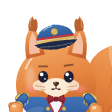
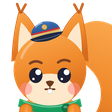
Helper mascot: the new Oiva Orava v2 squirrel (scarf, cream belly, coin) for the big Helper and the Ask Oiva faces
All 16 Helper moods map one to one onto the v2 pack's states. oiva.js is the pack's v2 file with the chat's
frame cap (fps option, setFps) carried over; the Ask Oiva face is the pack's red idle head avatar at 112 px.

diff --git a/app/static/oiva/mascot/oiva.js b/app/static/oiva/mascot/oiva.js
@@ -12,7 +12,7 @@
      b* body, c* crest, iri* iridescent rim, accent2 = hat feather / confetti. */
   /* Fur colours; the vault-keeper uniform stays the same in every variant. */
   const PALETTES = {
-    red:    { label: 'Red squirrel', b0: '#f4ad6a', b1: '#e5853f', b2: '#c9622b', cream: '#fbead3', inner: '#f3bfa2', tuft: '#b8622f',
+    red:    { label: 'Red squirrel', b0: '#fbab52', b1: '#f08a2c', b2: '#d56b1e', cream: '#fde8cb', inner: '#fbd6b2', tuft: '#c4601e',
               shadow: '#b9a58f', blush: '#ff8f8f', brow: '#7d4224', accent: '#b3323f', accentDk: '#7d1f2c', accent2: '#d6ae58',
               iri0: '#ffe2b8', iri1: '#9fc7d3', iri2: '#ffd27a' },
     winter: { label: 'Winter grey', b0: '#dcd6d1', b1: '#b9b1aa', b2: '#958c85', cream: '#f7f3ef', inner: '#efd0ca', tuft: '#7d746e',
@@ -23,7 +23,8 @@
               iri0: '#fff0c8', iri1: '#9fc7d3', iri2: '#ffd27a' }
   };
   // vault-keeper uniform (from the campaign look): blue coat, red piping, brass/gold
-  const NEON = '#c6f03c';  // highlighter only (approximate)
+  const NEON = '#c6f03c';
+  const SCARF0 = '#1fae69', SCARF1 = '#118a50', SCARF_DK = '#0e7443';  // highlighter only (approximate)
   const INK = '#1f2035', COAT0 = '#3f74b9', COAT1 = '#244a82', PIPING = '#c8323c', GOLD = '#d6ae58', GOLD_DK = '#a8822f';
 
   /* Tail spine (three bezier segments) sampled into overlapping fur puffs */
@@ -48,7 +49,7 @@
     const heart = 'M0 4 C-7 -1 -5 -8 0 -4.5 C5 -8 7 -1 0 4 Z';
     // a squirrel paw: round mitt + thumb + little toe lines
     const glove = (tx) => `<circle cx="${tx}" cy="-4" r="3.6" fill="${url('paw')}" stroke="${C.b2}" stroke-width="1"/>
-      <circle r="8.2" fill="${url('paw')}" stroke="${C.b2}" stroke-width="1"/>
+      <circle r="9" fill="${url('paw')}" stroke="${C.b2}" stroke-width="1"/>
       <path d="M-3.4 4.6 L-3 7.4 M0 5.2 L0 8.2 M3.4 4.6 L3 7.4" stroke="${C.b2}" stroke-width="1.1" stroke-linecap="round" opacity=".7"/>
       <ellipse cx="-2.6" cy="-3.4" rx="2.8" ry="1.8" fill="#fff" opacity=".55"/>`;
     const confColors = [C.accent, GOLD, COAT0, C.iri1, C.blush, C.b1];
@@ -56,10 +57,9 @@
       `<rect data-p="conf${i}" x="-2.5" y="-4" width="5" height="8" rx="1.5" fill="${c}" opacity="0"/>`).join('');
     const ear = (side) => {
       const m = (x) => 100 + side * (x - 100);
-      return `<path d="M${m(63)} 80 Q${m(58)} 52 ${m(70)} 38 Q${m(82)} 52 ${m(86)} 74 Z" fill="${url('fur')}"/>
-        <path d="M${m(67)} 74 Q${m(64)} 56 ${m(71)} 46 Q${m(78)} 58 ${m(80)} 72 Z" fill="${C.inner}"/>
-        <path d="M${m(66)} 44 C${m(64)} 36 ${m(67)} 30 ${m(71)} 26 C${m(71)} 31 ${m(73.5)} 32 ${m(75)} 29 C${m(78)} 34 ${m(77.5)} 41 ${m(75)} 46 Z" fill="${C.tuft}"/>
-        <path d="M${m(68)} 40 C${m(67)} 34 ${m(68.5)} 30 ${m(70.5)} 27" fill="none" stroke="${C.b0}" stroke-width="1.3" stroke-linecap="round" opacity=".7"/>`;
+      return `<path d="M${m(57)} 86 Q${m(58)} 56 ${m(65)} 30 Q${m(67)} 28 ${m(69)} 30 Q${m(86)} 46 ${m(94)} 74 Z" fill="${url('fur')}" stroke="${C.b2}" stroke-width=".8" stroke-linejoin="round"/>
+        <path d="M${m(64)} 76 Q${m(64)} 58 ${m(67.5)} 42 Q${m(80)} 54 ${m(85)} 72 Z" fill="${C.cream}"/>
+        <path d="M${m(66.5)} 31 L${m(63)} 21.5 M${m(67.5)} 31 L${m(72.5)} 22" fill="none" stroke="${C.tuft}" stroke-width="2.8" stroke-linecap="round"/>`;
     };
     return `
 <svg viewBox="-10 -20 220 220" xmlns="http://www.w3.org/2000/svg" role="img" aria-label="Oiva Orava, the vault-keeper squirrel">
@@ -70,9 +70,11 @@
     <radialGradient id="${id('paw')}" cx=".35" cy=".3" r=".8">
       <stop offset="0" stop-color="${C.b0}"/><stop offset="1" stop-color="${C.b1}"/>
     </radialGradient>
-    <linearGradient id="${id('tail')}" gradientUnits="userSpaceOnUse" x1="140" y1="170" x2="195" y2="40">
+    <linearGradient id="${id('tail')}" gradientUnits="userSpaceOnUse" x1="140" y1="178" x2="190" y2="40">
       <stop offset="0" stop-color="${C.b2}"/><stop offset=".45" stop-color="${C.b1}"/><stop offset="1" stop-color="${C.b0}"/>
     </linearGradient>
+    <radialGradient id="${id('coinFace')}" cx=".38" cy=".32" r=".8"><stop offset="0" stop-color="#ffe680"/><stop offset=".6" stop-color="#f8c42c"/><stop offset="1" stop-color="#eaa514"/></radialGradient>
+    <linearGradient id="${id('scarf')}" x1="0" y1="0" x2="0" y2="1"><stop offset="0" stop-color="${SCARF0}"/><stop offset="1" stop-color="${SCARF1}"/></linearGradient>
     <linearGradient id="${id('coat')}" x1="0" y1="0" x2="0" y2="1">
       <stop offset="0" stop-color="${COAT0}"/><stop offset="1" stop-color="${COAT1}"/>
     </linearGradient>
@@ -97,56 +99,29 @@
 
   <g data-p="float"><g data-p="lean"><g data-p="body">
     <!-- big fluffy tail (behind) -->
-    <!-- bushy tail: rises behind his back in an S, tip curls outward above the ear -->
+    <!-- big round tail (v2 style): rises behind the body, top bulges up beside the head -->
     <g data-p="tail">
-      <path d="M128 160 C150 174 182 163 187 132 C191 106 181 92 180 74 C179 56 187 40 200 40 C211 41 211 59 200 61 C191 63 185 58 176 61 C161 65 148 72 142 86 C135 102 131 126 128 160 Z" fill="${C.b2}" transform="translate(2.2 2.4)"/>
-      <path d="M128 160 C150 174 182 163 187 132 C191 106 181 92 180 74 C179 56 187 40 200 40 C211 41 211 59 200 61 C191 63 185 58 176 61 C161 65 148 72 142 86 C135 102 131 126 128 160 Z" fill="${url('tail')}"/>
-      <g clip-path="${url('tailClip')}">
-        <path d="M146 168 C170 160 182 136 180 112 C178 94 168 82 170 66 C171 55 178 48 190 46" fill="none" stroke="${C.cream}" stroke-width="8" stroke-linecap="round" opacity=".3"/>
-        <path d="M160 150 q8 -6 12 -16 M166 118 q4 -8 3 -18 M174 82 q0 -8 4 -14" fill="none" stroke="${C.b2}" stroke-width="1.6" stroke-linecap="round" opacity=".35"/>
-        <path d="M186 132 C190 112 186 98 180 86" fill="none" stroke="#fff" stroke-width="2.4" stroke-linecap="round" opacity=".28"/>
-      </g>
-      <path d="M181 47 C186 42 195 41 201 45" fill="none" stroke="#fff" stroke-width="2.4" stroke-linecap="round" opacity=".7"/>
+      <path d="M116 186 C156 196 202 178 203 130 C204 84 188 46 158 41 C138 38 124 52 127 70 C130 86 150 92 156 112 C162 134 150 158 118 170 Z" fill="${C.b2}" transform="translate(1.6 2)"/>
+      <path d="M116 186 C156 196 202 178 203 130 C204 84 188 46 158 41 C138 38 124 52 127 70 C130 86 150 92 156 112 C162 134 150 158 118 170 Z" fill="${url('tail')}"/>
+      <path d="M174 54 C190 66 197 92 196 118" fill="none" stroke="#fff" stroke-width="4.6" stroke-linecap="round" opacity=".45"/>
+      <path d="M195 142 C191 160 180 172 162 179" fill="none" stroke="#fff" stroke-width="2" stroke-linecap="round" opacity=".18"/>
     </g>
-    <!-- hind legs + feet (behind the coat) -->
-    ${[-1, 1].map((sd) => { const m = (x) => 100 + sd * (x - 100);
-      return `<path d="M${m(84)} 148 C${m(82.5)} 165 ${m(82)} 176 ${m(84)} 186 L${m(96)} 186 C${m(97)} 175 ${m(96.5)} 163 ${m(95)} 148 Z" fill="${url('fur')}"/>
-        <path d="M${m(86)} 160 C${m(85.5)} 170 ${m(85.5)} 177 ${m(86.5)} 183" fill="none" stroke="#fff" stroke-width="1.6" stroke-linecap="round" opacity=".3"/>
-        <g transform="translate(${m(88)} 188) rotate(${sd * -9})">
-          <ellipse rx="11" ry="5.4" fill="${url('paw')}" stroke="${C.b2}" stroke-width="1.1"/>
-          <path d="M-2.5 -1 v3 M2.5 -1 v3" stroke="${C.b2}" stroke-width=".9" stroke-linecap="round" opacity=".45"/>
-          <ellipse cx="-3.6" cy="-2.4" rx="3.6" ry="1.3" fill="#fff" opacity=".5"/>
-        </g>`; }).join('')}
-    <!-- coat tails -->
-    <path d="M70 151 Q65 162 65 171 Q74 170 82 160 Z" fill="${url('coat')}"/>
-    <path d="M130 151 Q135 162 135 171 Q126 170 118 160 Z" fill="${url('coat')}"/>
-    <path d="M70 151 Q65 162 65 171" fill="none" stroke="${PIPING}" stroke-width="1.6" stroke-linecap="round"/>
-    <path d="M130 151 Q135 162 135 171" fill="none" stroke="${PIPING}" stroke-width="1.6" stroke-linecap="round"/>
-
-    <!-- round fur body -->
-    <circle cx="100" cy="112" r="50" fill="${url('fur')}"/>
-    <g clip-path="${url('bodyClip')}">
-      <!-- double-breasted vault-keeper coat -->
-      <path d="M40 133 Q66 124 88 128 L100 153 L112 128 Q134 124 160 133 L160 175 L40 175 Z" fill="${url('coat')}"/>
-      <path d="M88 128 Q100 125 112 128 L100 153 Z" fill="#f4f6fb"/>
-      <path d="M88 128 L100 153 L112 128" fill="none" stroke="${PIPING}" stroke-width="2.2" stroke-linejoin="round"/>
-      <path d="M100 153 L100 175" stroke="${PIPING}" stroke-width="1.8"/>
-      <ellipse cx="72" cy="146" rx="14" ry="5" fill="#fff" opacity=".12" transform="rotate(-20 72 146)"/>
-      ${[[90, 142], [110, 142], [91, 152], [109, 152], [92, 162], [108, 162]].map(([x, y]) =>
-        `<circle cx="${x}" cy="${y}" r="2.3" fill="${url('gold')}" stroke="${GOLD_DK}" stroke-width=".7"/>`).join('')}
+    <!-- feet -->
+    <g data-p="legs">
+      ${[83, 117].map((x) => `<ellipse cx="${x}" cy="191" rx="13.5" ry="6.6" fill="${url('paw')}" stroke="${C.b2}" stroke-width=".9"/>
+        <ellipse cx="${x - 3.5}" cy="188.2" rx="4.6" ry="1.6" fill="#fff" opacity=".4"/>`).join('')}
     </g>
-    <!-- gold epaulettes -->
-    ${[-1, 1].map((sd) => { const m = (x) => 100 + sd * (x - 100);
-      return `<path d="M${m(49)} 128 Q${m(55)} 119 ${m(67)} 123 L${m(65)} 131 Q${m(56)} 133 ${m(49)} 131 Z" fill="${url('gold')}" stroke="${GOLD_DK}" stroke-width=".8"/>
-        <path d="M${m(51)} 131 l${sd * -.5} 5 M${m(54.5)} 132 l0 5.5 M${m(58)} 132.5 l0 5.5 M${m(61.5)} 132.5 l0 5 M${m(64.5)} 131.5 l${sd * .4} 4.5" stroke="${GOLD}" stroke-width="1.3" stroke-linecap="round"/>`; }).join('')}
-    <!-- soft fur lighting -->
-    <ellipse cx="68" cy="104" rx="6" ry="14" fill="#fff" opacity=".28" filter="${url('blur2')}"/>
-    <path d="M62 92 A42 42 0 0 1 80 70" fill="none" stroke="#fff" stroke-width="2.6" stroke-linecap="round" opacity=".55"/>
+    <!-- small pear body with a cream belly -->
+    <path d="M100 121 C129 121 141 148 141 167 C141 184 123 192 100 192 C77 192 59 184 59 167 C59 148 71 121 100 121 Z" fill="${url('fur')}"/>
+    <path d="M100 137 C119 137 128 155 128 170 C128 183 116 189 100 189 C84 189 72 183 72 170 C72 155 81 137 100 137 Z" fill="${C.cream}"/>
+    <path d="M70 158 C71 146 78 134 88 129" fill="none" stroke="#fff" stroke-width="2.6" stroke-linecap="round" opacity=".28"/>
 
-    <!-- ears + peaked cap -->
+    <!-- head (with ears and cap) -->
     <g data-p="crest">
       <g data-p="earL">${ear(1)}</g>
       <g data-p="earR">${ear(-1)}</g>
+      <circle cx="100" cy="96" r="41" fill="${url('fur')}"/>
+      <path d="M68 82 C72 70 82 61 95 58" fill="none" stroke="#fff" stroke-width="3" stroke-linecap="round" opacity=".3"/>
       <!-- LEARNED: idea bulb above the cap -->
       <g data-p="bulb" opacity="0">
         <g data-p="bulbRays" stroke="#f2c14e" stroke-width="2.4" stroke-linecap="round">
@@ -158,7 +133,7 @@
         <path d="M-4.4 10.6 H4.4" stroke="#7d8fa6" stroke-width="1"/>
         <ellipse cx="-3.6" cy="-4" rx="2.6" ry="1.6" fill="#fff" opacity=".9"/>
       </g>
-      <g data-p="hat"><g transform="translate(100 60) scale(1.12) translate(-100 -60)">
+      <g data-p="hat"><g transform="translate(97 60) scale(.8) translate(-100 -64)">
         <path d="M79 60 Q77 42 100 39 Q123 42 121 60 Z" fill="${url('coat')}"/>
         <rect x="79.2" y="52" width="41.6" height="2.4" fill="${PIPING}"/>
         <rect x="79" y="54.4" width="42" height="4.2" fill="${url('gold')}"/>
@@ -169,47 +144,54 @@
       </g></g>
     </g>
 
+    <!-- scarf -->
+    <path d="M66 128 Q100 143 134 128 L136 137 Q100 153 64 137 Z" fill="${url('scarf')}"/>
+    <path d="M70 131 Q100 144 130 131" fill="none" stroke="#fff" stroke-width="1.4" stroke-linecap="round" opacity=".35"/>
+
     <g data-p="face">
-      <ellipse cx="70" cy="117" rx="7" ry="4.2" data-p="blushL" fill="${C.blush}" filter="${url('blur2')}"/>
-      <ellipse cx="130" cy="117" rx="7" ry="4.2" data-p="blushR" fill="${C.blush}" filter="${url('blur2')}"/>
-      <!-- cream muzzle + cheek fluff -->
-      <ellipse cx="100" cy="115" rx="17" ry="11.5" fill="${C.cream}"/>
-      <ellipse cx="80" cy="113" rx="9" ry="7" fill="${C.cream}" opacity=".85"/>
-      <ellipse cx="120" cy="113" rx="9" ry="7" fill="${C.cream}" opacity=".85"/>
-      <g data-p="eyeL"><ellipse cx="84" cy="102" rx="6.2" ry="7.2" fill="${INK}"/><circle cx="82" cy="99" r="2.3" fill="#fff"/><circle cx="86.2" cy="104.6" r="1" fill="#fff"/></g>
-      <g data-p="eyeR"><ellipse cx="116" cy="102" rx="6.2" ry="7.2" fill="${INK}"/><circle cx="114" cy="99" r="2.3" fill="#fff"/><circle cx="118.2" cy="104.6" r="1" fill="#fff"/></g>
-      <path data-p="happy" d="M77 104 Q84 96 91 104 M109 104 Q116 96 123 104" fill="none" stroke="${INK}" stroke-width="3" stroke-linecap="round" opacity="0"/>
-      <path data-p="squint" d="M79 97 L88 102 L79 107 M121 97 L112 102 L121 107" fill="none" stroke="${INK}" stroke-width="3" stroke-linecap="round" stroke-linejoin="round" opacity="0"/>
-      <path data-p="browL" d="M79 89 L89 89" stroke="${C.brow}" stroke-width="2.4" stroke-linecap="round" opacity=".8"/>
-      <path data-p="browR" d="M111 89 L121 89" stroke="${C.brow}" stroke-width="2.4" stroke-linecap="round" opacity=".8"/>
-      <!-- whiskers -->
-      <path d="M86 115 L74 113 M86 118 L75 119.5 M114 115 L126 113 M114 118 L125 119.5" stroke="${C.brow}" stroke-width=".9" stroke-linecap="round" opacity=".45"/>
+      <!-- cream muzzle -->
+      <path d="M100 100 C116 100 128 109 128 120 C128 130 115 136 100 136 C85 136 72 130 72 120 C72 109 84 100 100 100 Z" fill="${C.cream}"/>
+      <circle cx="73" cy="117" r="7" data-p="blushL" fill="${C.blush}"/>
+      <circle cx="127" cy="117" r="7" data-p="blushR" fill="${C.blush}"/>
+      <g data-p="eyeL"><ellipse cx="84" cy="102" rx="7.6" ry="8.6" fill="${INK}"/><circle cx="86.8" cy="98.4" r="3.3" fill="#fff"/><circle cx="81.4" cy="106" r="1.4" fill="#fff"/></g>
+      <g data-p="eyeR"><ellipse cx="116" cy="102" rx="7.6" ry="8.6" fill="${INK}"/><circle cx="118.8" cy="98.4" r="3.3" fill="#fff"/><circle cx="113.4" cy="106" r="1.4" fill="#fff"/></g>
+      <path data-p="happy" d="M76 104 Q84 95 92 104 M108 104 Q116 95 124 104" fill="none" stroke="${INK}" stroke-width="3.2" stroke-linecap="round" opacity="0"/>
+      <path data-p="squint" d="M78 96 L89 102 L78 108 M122 96 L111 102 L122 108" fill="none" stroke="${INK}" stroke-width="3.2" stroke-linecap="round" stroke-linejoin="round" opacity="0"/>
+      <path data-p="browL" d="M77.5 88.5 Q84 84 90.5 88" fill="none" stroke="${C.brow}" stroke-width="2.8" stroke-linecap="round"/>
+      <path data-p="browR" d="M109.5 88 Q116 84 122.5 88.5" fill="none" stroke="${C.brow}" stroke-width="2.8" stroke-linecap="round"/>
       <!-- nose -->
-      <path d="M96.5 109.5 Q100 108 103.5 109.5 Q101.5 113.5 100 113.5 Q98.5 113.5 96.5 109.5 Z" fill="#4a2a22" stroke="#4a2a22" stroke-width="1.2" stroke-linejoin="round"/>
-      <ellipse cx="98.8" cy="109.6" rx="1.1" ry=".6" fill="#fff" opacity=".6"/>
-      <path d="M100 113.5 L100 116.5" stroke="#4a2a22" stroke-width="1.2" stroke-linecap="round"/>
-      <path data-p="mouth" d="M95 118 Q100 118 105 118 Q100 118 95 118 Z" fill="#4a2a22" stroke="#4a2a22" stroke-width="1.9" stroke-linejoin="round" stroke-linecap="round"/>
-      <!-- little buck teeth (ride on the upper lip) -->
-      <g data-p="teeth"><rect x="98" y="118.4" width="4" height="3.4" rx=".9" fill="#fff" stroke="#e2d8ca" stroke-width=".6"/>
-      <path d="M100 118.6 L100 121.6" stroke="#e2d8ca" stroke-width=".5"/></g>
-      <path data-p="tear" d="M78 106 Q81.4 111.6 78 114.6 Q74.6 111.6 78 106 Z" fill="#9fd0f0" stroke="#fff" stroke-width=".8" opacity="0"/>
-      <path data-p="sweat" d="M136 84 Q141 92 136 96 Q131 92 136 84 Z" fill="#a9d6f2" opacity="0"/>
+      <path d="M96 109.4 Q100 107.6 104 109.4 Q101.8 114 100 114 Q98.2 114 96 109.4 Z" fill="#6b3a1f" stroke="#6b3a1f" stroke-width="1.2" stroke-linejoin="round"/>
+      <path d="M100 114 L100 117" stroke="#6b3a1f" stroke-width="1.3" stroke-linecap="round"/>
+      <path data-p="mouth" d="M95 118 Q100 118 105 118 Q100 118 95 118 Z" fill="#6b3a1f" stroke="#6b3a1f" stroke-width="1.9" stroke-linejoin="round" stroke-linecap="round"/>
+      <!-- one buck tooth -->
+      <g data-p="teeth"><rect x="97.5" y="118.4" width="5" height="4.4" rx="1.1" fill="#fff" stroke="#e5dccf" stroke-width=".6"/></g>
+      <path data-p="tear" d="M78 108 Q81.4 113.6 78 116.6 Q74.6 113.6 78 108 Z" fill="#9fd0f0" stroke="#fff" stroke-width=".8" opacity="0"/>
+      <path data-p="sweat" d="M136 82 Q141 90 136 94 Q131 90 136 82 Z" fill="#a9d6f2" opacity="0"/>
       <g data-p="monocle" opacity="0"></g>
     </g>
 
-    <!-- tie -->
+    <!-- scarf knot + tails (the rig calls it the tie) -->
     <g data-p="tie">
-      <path d="M100 130 L90.5 125 Q88.8 130 90.5 135 Z" fill="${url('tie')}" stroke="${C.accentDk}" stroke-width="1.3" stroke-linejoin="round"/>
-      <path d="M100 130 L109.5 125 Q111.2 130 109.5 135 Z" fill="${url('tie')}" stroke="${C.accentDk}" stroke-width="1.3" stroke-linejoin="round"/>
-      <rect x="97" y="127" width="6" height="6" rx="2" fill="${C.accentDk}"/>
+      <path d="M115 140 L110 157 Q114 158 118 155 L121 141 Z" fill="${url('scarf')}"/>
+      <path d="M121 140 L129 154 Q132 151 133 147 L125 139 Z" fill="${url('scarf')}"/>
+      <ellipse cx="119" cy="139" rx="6" ry="5" fill="${SCARF_DK}"/>
+      <ellipse cx="117.4" cy="137.6" rx="2.4" ry="1.4" fill="#fff" opacity=".3"/>
     </g>
 
     <!-- SAVING: golden acorn held in the paw -->
     <g data-p="acorn" opacity="0">${ACORN}</g>
     <!-- coat sleeves -->
-    ${['L', 'R'].map((n) => `<path data-p="sleeve${n}" fill="none" stroke="${COAT1}" stroke-width="11" stroke-linecap="round"/>
-      <path data-p="sleeve${n}i" fill="none" stroke="${url('coat')}" stroke-width="8.4" stroke-linecap="round"/>
-      <circle data-p="cuff${n}" r="5.6" fill="#f4f6fb" stroke="${GOLD}" stroke-width="1.4"/>`).join('')}
+    ${['L', 'R'].map((n) => `<path data-p="sleeve${n}" fill="none" stroke="${C.b2}" stroke-width="15" stroke-linecap="round"/>
+      <path data-p="sleeve${n}i" fill="none" stroke="${url('paw')}" stroke-width="12.6" stroke-linecap="round"/>
+      <circle data-p="cuff${n}" r="0" opacity="0"/>`).join('')}
+    <!-- gold € coin held at the chest (shows when both paws are close together) -->
+    <g data-p="chestCoin"><g transform="scale(1.3)">
+      <circle r="16" fill="#e7a514"/>
+      <circle r="14.6" fill="${url('coinFace')}"/>
+      <circle r="11.2" fill="none" stroke="#f9d65a" stroke-width="1.8"/>
+      <path d="M4.4 -5.6 A7.2 7.2 0 1 0 4.4 5.6 M-7.6 -1.7 H2.4 M-7.6 1.9 H2.4" fill="none" stroke="#8f5a07" stroke-width="2.6" stroke-linecap="round"/>
+      <ellipse cx="-6.4" cy="-8.4" rx="3.8" ry="2" fill="#fff" opacity=".7" transform="rotate(-32 -6.4 -8.4)"/>
+    </g></g>
     <g data-p="trayC" opacity="0"><g>
       <ellipse cx="0" cy="0" rx="24" ry="4.5" fill="#b9c0d8"/>
       <ellipse cx="0" cy="-1.5" rx="23" ry="3.6" fill="#f3f5fb"/>
@@ -298,11 +280,7 @@
       <circle cy="-29" r="2.6" fill="${C.accent2}" stroke="#fff" stroke-width="1"/>
     </g>
 
-    <g data-p="napkin">
-      <circle cy="6" r="4.2" fill="none" stroke="${GOLD}" stroke-width="1.4"/>
-      <g transform="translate(-2 9) rotate(12)"><circle r="2.4" fill="none" stroke="${GOLD_DK}" stroke-width="1.4"/><path d="M0 2.4 V12 M0 9 h2.6 M0 11.4 h2" stroke="${GOLD_DK}" stroke-width="1.4" stroke-linecap="round"/></g>
-      <g transform="translate(3 9) rotate(-14)"><circle r="2.2" fill="none" stroke="${GOLD}" stroke-width="1.3"/><path d="M0 2.2 V10.5 M0 8 h2.3 M0 10 h1.8" stroke="${GOLD}" stroke-width="1.3" stroke-linecap="round"/></g>
-    </g>
+    <g data-p="napkin"></g>
 
     <g data-p="gloveR">${glove(-5.5)}<g data-p="thumbR" opacity="0">
       <rect x="-3" y="-17" width="6" height="10" rx="3" fill="${url('paw')}" stroke="${C.b2}" stroke-width="1"/>
@@ -384,8 +362,8 @@
     eyeOpen: 1, happy: 0, squint: 0, smile: 0, mouthO: 0, blush: 0.55,
     browL: 0, browR: -8, browLY: 0, browRY: -1.5,
     earL: 0, earR: 0,
-    hatLift: 0, hatRot: -8, hatX: 0, tieRot: 0,
-    rhx: 50, rhy: 142, lhx: 150, lhy: 144,
+    hatLift: 0, hatRot: -14, hatX: 0, tieRot: 0,
+    rhx: 78, rhy: 160, lhx: 122, lhy: 160,
     attChin: 0, attEar: 0, attHat: 0,
     trayC: 0, trayK: 0, glass: 0, glassRot: 0,
     sweat: 0, spark: 0, think: 0, monoDrop: 0,
@@ -498,7 +476,7 @@
       const bow = win(ph, .18, .32, .5, .66);
       const hop = win(ph, .68, .75, .75, .86);
       T.attHat = up;
-      T.hatLift = 12 * up; T.hatRot = -8 - 16 * up; T.hatX = -3 * up;
+      T.hatLift = 12 * up; T.hatRot = -14 - 14 * up; T.hatX = -3 * up;
       T.fy += 4 * bow; T.cry += 3 * bow; T.sqy -= 0.03 * bow; T.floatY -= 12 * hop;
       T.sqy += 0.05 * hop; T.sqx -= 0.03 * hop;
       T.happy = 1; T.smile = 1; T.blush = 0.95;
@@ -507,21 +485,18 @@
       T.confT = ph;
       T.scr = 1; T.checkDraw = 1;                          // job done: the window shows a tick
     },
-    error(T, tau, L) {
+    error(T, tau, L) {                                     // "oh no!": paws to cheeks, worried brows, wobbly mouth, then regroups
       const ph = phase(tau, 3.4);
-      const w = win(ph, 0, .05, .26, .38);
-      const fix = win(ph, .3, .42, .76, .88);
-      const straight = smooth(.44, .8, ph);
-      T.tieRot = 20 * (1 - straight) + 4 * Math.sin(tau * 20) * fix * (1 - straight);
-      T.squint = w; T.eyeOpen = 0.85; T.mouthO = w;
-      const worry = Math.max(w, 0.55);
-      T.browL = -16 * worry; T.browR = 16 * worry; T.browLY = 1; T.browRY = 1;
-      T.floatY += 5 * w; T.lean += 1.5 * Math.sin(tau * 42) * w; T.sqy -= 0.04 * w; T.sqx += 0.025 * w;
-      T.earL = -12 * w; T.earR = 12 * w; T.fy += 2;
-      T.sweat = Math.max(w, fix * 0.9); T.sweatY = ph * 8;
-      T.monoDrop = 1 - smooth(.78, .95, ph);               // monocle pops, dangles, gets put back
-      T.rhx = lerp(56, 91, fix); T.rhy = lerp(138, 131, fix);
-      T.lhx = lerp(144, 109, fix); T.lhy = lerp(138, 131, fix);
+      const jolt = win(ph, 0, .04, .1, .16);
+      const oh = win(ph, .02, .1, .6, .74);
+      T.squint = jolt; T.eyeOpen = 1 + .12 * oh;
+      T.frown = .75 * oh; T.mouthO = .32 * oh * (1 + .25 * Math.sin(tau * 16)); T.smile = 0;
+      T.browL = -24 * oh; T.browR = 24 * oh; T.browLY = -1 * oh; T.browRY = -1 * oh;
+      T.floatY += 4 * jolt; T.lean += 1.5 * Math.sin(tau * 42) * jolt; T.sqy -= 0.04 * jolt; T.sqx += 0.025 * jolt;
+      T.earL = -14 * oh; T.earR = 14 * oh; T.fy += 1;
+      T.sweat = oh; T.sweatY = ph * 8; T.blush = .35 + .3 * oh;
+      T.rhx = lerp(T.rhx, 70, oh); T.rhy = lerp(T.rhy, 124, oh);   // paws to cheeks
+      T.lhx = lerp(T.lhx, 130, oh); T.lhy = lerp(T.lhy, 124, oh);
     },
     learned(T, tau) {                                     // "aha!": bulb pops on, happy hop, paw up
       const ph = phase(tau, 2.6), pop = win(ph, .04, .14, .8, .95);
@@ -586,7 +561,7 @@
   };
   const STATIC_TAU = { learned: .9, saving: 2.4, spent: 2.2, safe_to_spend: 0, caution: 0, what_if: 2.6, compare: 2.2,
                        idle: 0, listening: 2.6, thinking: 0, working: 0.6, teaching: 2 * TEACH_STEP + 1.1,
-                       checking: 2.9, needs_approval: 0, success: 1.26, error: 2.04 };
+                       checking: 2.9, needs_approval: 0, success: 1.26, error: 1.2 };
 
   function rot([x, y], [cx, cy], deg) {
     const c = Math.cos(deg * DEG), s = Math.sin(deg * DEG), dx = x - cx, dy = y - cy;
@@ -606,7 +581,7 @@
       if (opts.framing === 'head') {                          // head-and-shoulders crop for chat avatars / icons
         const sv = container.querySelector('svg');
         sv.setAttribute('viewBox', '30 6 140 140'); sv.style.overflow = 'hidden'; sv.setAttribute('aria-label', 'Oiva avatar');
-        ['shadow', 'vault', 'okBadge', 'warnBadge', 'think', 'scr', 'chart', 'spark1', 'spark2', 'coinOut', 'acornFly', 'baton', 'glass', 'lap', 'trayK', 'trayC', 'pad'].forEach((n) => { const e = sv.querySelector(`[data-p="${n}"]`); if (e) e.style.display = 'none'; });
+        ['shadow', 'vault', 'okBadge', 'warnBadge', 'think', 'scr', 'chart', 'spark1', 'spark2', 'coinOut', 'acornFly', 'baton', 'glass', 'lap', 'trayK', 'trayC', 'pad', 'chestCoin'].forEach((n) => { const e = sv.querySelector(`[data-p="${n}"]`); if (e) e.style.display = 'none'; });
       }
       svg = container.querySelector('svg');
       el = {};
@@ -730,7 +705,7 @@
       set('tie', 'transform', `rotate(${f(P.tieRot)} ${TIE[0]} ${TIE[1]})`);
       // tail: lazy swish, flicks up on success, puffs out when startled
       const tailRot = (rm ? 0 : 5 * Math.sin(t * 1.7) * (1 - .7 * P.tailDrop)) + P.lean * .8 - 8 * P.spark + (rm ? 0 : 5 * Math.sin(t * 11) * P.sweat) + 7 * P.tailDrop - 9 * P.flick;
-      const tailPuff = 1 + .14 * P.sweat;
+      const tailPuff = 1 + .05 * P.sweat;
       set('tail', 'transform', `rotate(${f(tailRot)} 126 164) translate(126 164) scale(${f(tailPuff * (1 - .06 * P.tailDrop))} ${f(tailPuff * (1 - .2 * P.tailDrop))}) translate(-126 -164)`);   // droops: lower and slumped
 
       // monocle: drops to hang on its chain, swinging
@@ -746,6 +721,9 @@
       set('gloveR', 'transform', `translate(${f(rx)} ${f(ry)})`);
       set('gloveL', 'transform', `translate(${f(P.lhx)} ${f(P.lhy)})`);
       set('thumbR', 'opacity', f(clamp(P.thumb * 1.4 - .2, 0, 1)));
+      const pawGap = Math.hypot(P.lhx - rx, P.lhy - ry), cv = (1 - smooth(48, 58, pawGap)) * (1 - smooth(6, 14, Math.abs(P.lhy - ry)));
+      set('chestCoin', 'opacity', f(cv));
+      set('chestCoin', 'transform', `translate(${f((rx + P.lhx) / 2)} ${f(Math.max(150, (ry + P.lhy) / 2 + 1))}) scale(${f(Math.max(.01, .8 + .2 * cv))})`);
       // --- new-mood props ---
       const popS = (v) => f(Math.max(.01, rm ? (v > .5 ? 1 : 0) : (v <= 0 ? 0 : v >= 1 ? 1 : 1 + 2.7 * (v - 1) ** 3 + 1.7 * (v - 1) ** 2)));
       set('bulb', 'opacity', f(clamp(P.bulb * 2, 0, 1)));
@@ -754,10 +732,10 @@
       set('acorn', 'opacity', f(clamp(P.acorn * 1.4 - .2, 0, 1)));
       set('acorn', 'transform', `translate(${f(rx + 2)} ${f(ry - 11)}) scale(${f(.6 + .4 * P.acorn)})`);
       [['L', 1, P.lhx, P.lhy], ['R', -1, rx, ry]].forEach(([n, side, hx, hy]) => {
-        const sx = 100 + side * 40, sy = 128;                                 // shoulder, under the epaulette
+        const sx = 100 + side * 27, sy = 141;                                 // shoulder, under the epaulette
         const dx = hx - sx, dy = hy - sy, len = Math.max(1, Math.hypot(dx, dy));
         const ex = hx - dx / len * 6.5, ey = hy - dy / len * 6.5;            // stop just inside the paw
-        const cx2 = (sx + ex) / 2 + side * len * .18, cy2 = (sy + ey) / 2 + len * .12;
+        const cx2 = (sx + ex) / 2 + side * len * .12, cy2 = (sy + ey) / 2 + len * .08;
         const d = `M${f(sx)} ${f(sy)} Q${f(cx2)} ${f(cy2)} ${f(ex)} ${f(ey)}`;
         set('sleeve' + n, 'd', d); set('sleeve' + n + 'i', 'd', d);
         set('cuff' + n, 'transform', `translate(${f(hx - dx / len * 4)} ${f(hy - dy / len * 4)})`);
